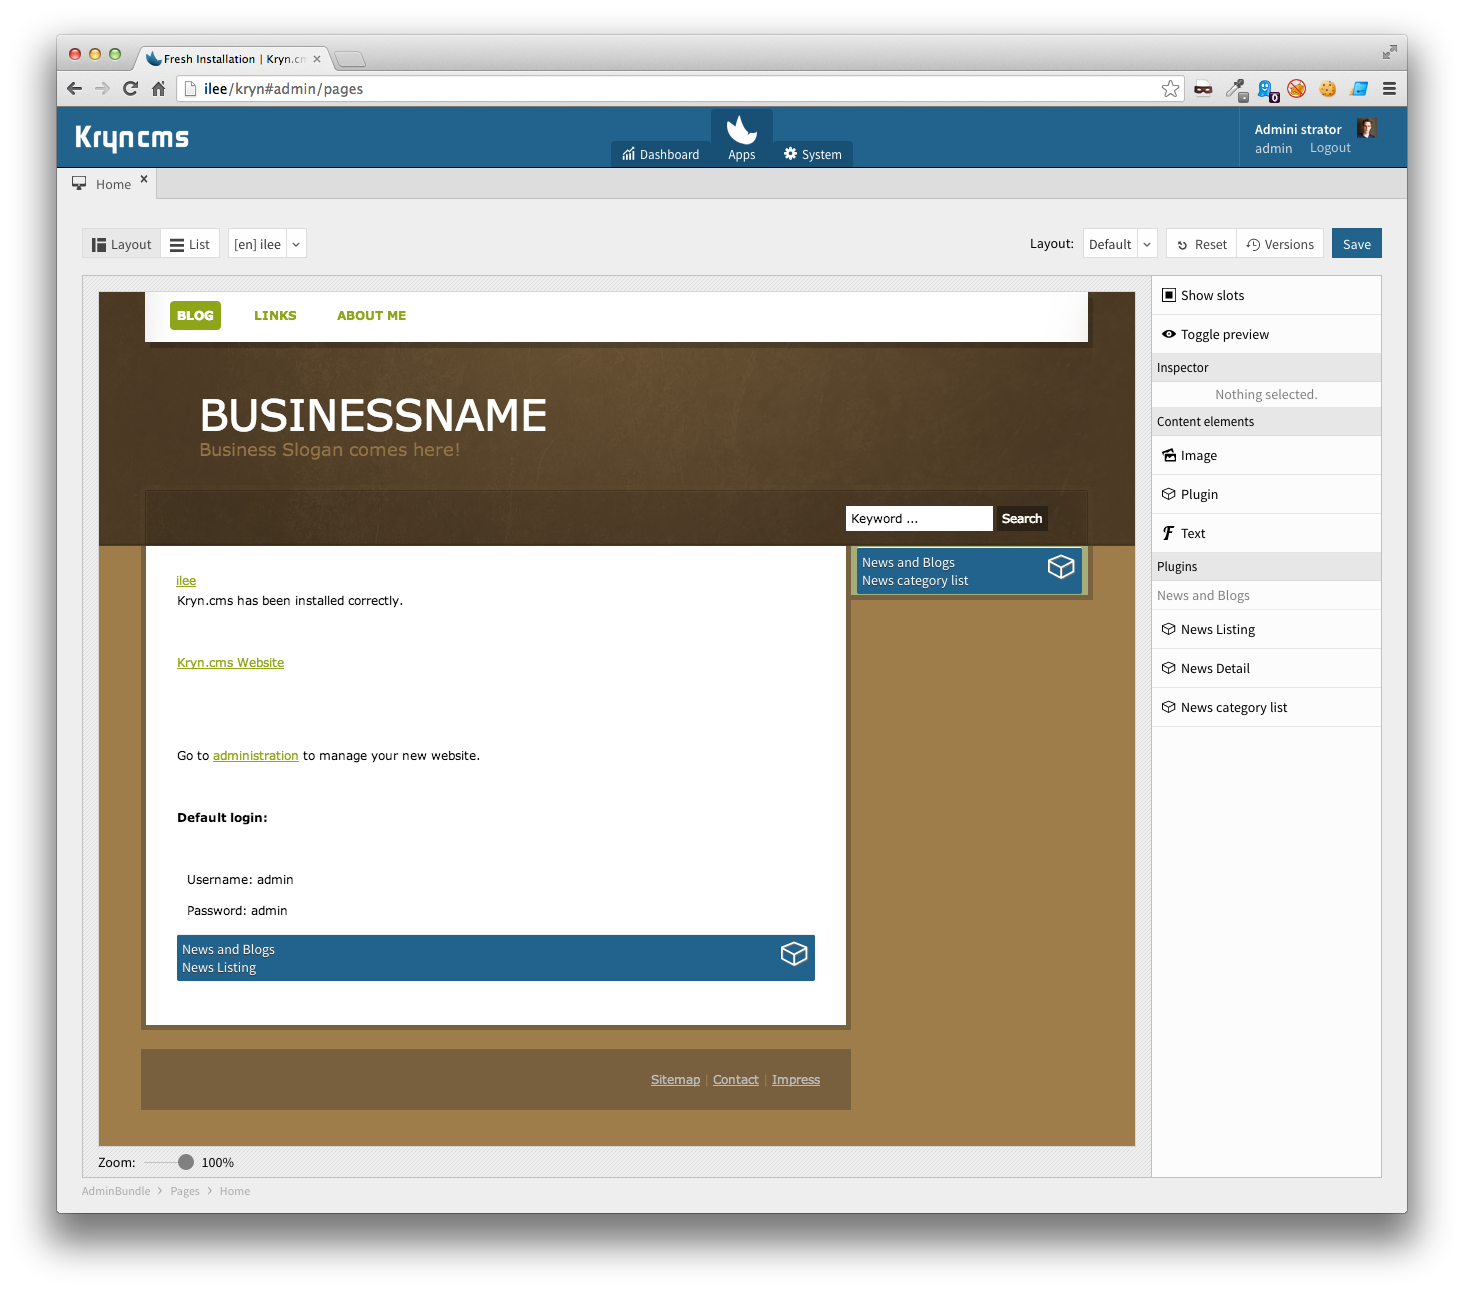
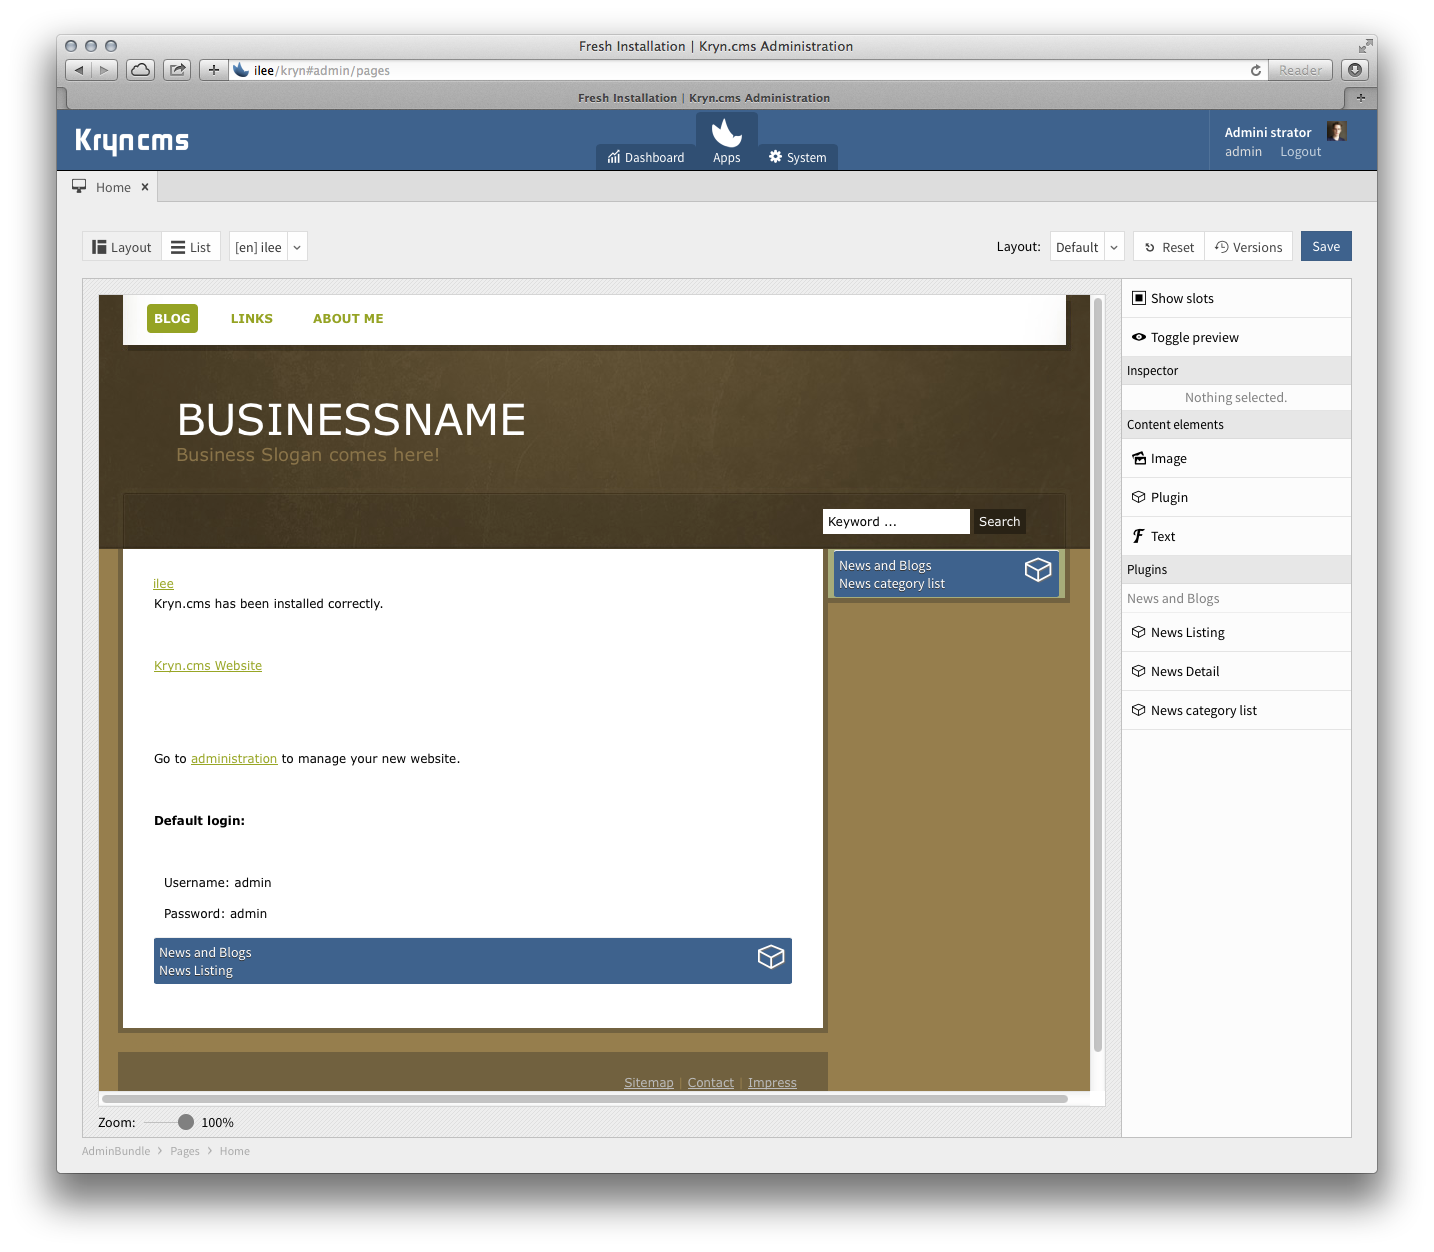
Added new screenshots with the correct color.

Changed region(s): [[0.0307, 0.0312, 0.9819, 0.9345], [0.1227, 0.3115, 0.3682, 0.3738]]

diff --git a/src/Admin/Resources/public/css/ka/Dashboard.css b/src/Admin/Resources/public/css/ka/Dashboard.css
@@ -35,7 +35,7 @@
 }
 
 .ka-Dashboard-widget-grid-1 {
-    width: 215px;
+    /*width: 215px;*/
 }
 
 .ka-Dashboard-widget-grid-2 {

diff --git a/README.md b/README.md
@@ -61,7 +61,7 @@ Screenshot
 ![Administration Dashboard](https://raw.github.com/kryncms/Kryn.cms/refactoring/documentation/images/admin-dashboard.png)
 ![Administration Frontend Edit](https://raw.github.com/kryncms/Kryn.cms/refactoring/documentation/images/admin-frontend-edit.png)
 ![Administration File manager](https://raw.github.com/kryncms/Kryn.cms/refactoring/documentation/images/admin-files-context-image.png)
-![Administration CRUD Framework Window List](https://raw.github.com/kryncms/Kryn.cms/refactoring/documentation/images/admin-users-list.png)
+![Administration CRUD Framework Window List](https://raw.github.com/kryncms/Kryn.cms/refactoring/documentation/images/admin-list.png)
 ![Administration CRUD Framework Window](https://raw.github.com/kryncms/Kryn.cms/refactoring/documentation/images/admin-users.png)
 
 [More Screenshots](https://github.com/kryncms/Kryn.cms/blob/refactoring/documentation/screenshots.markdown)
